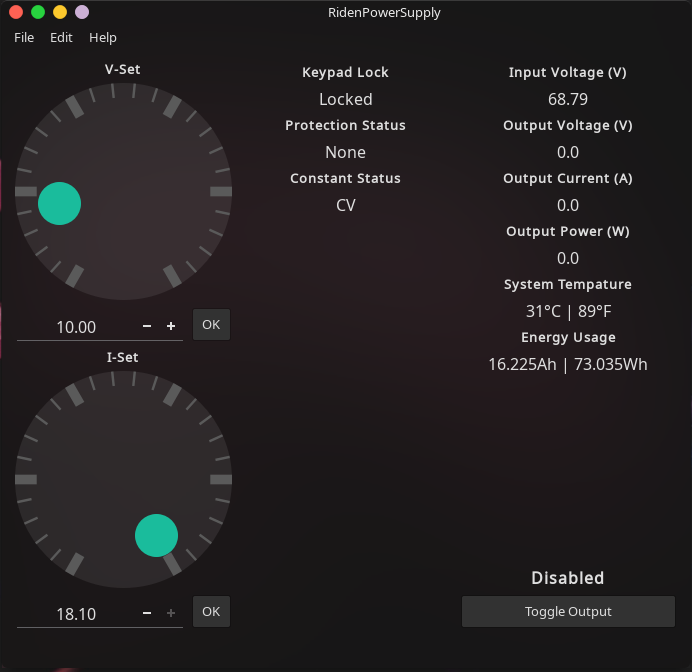
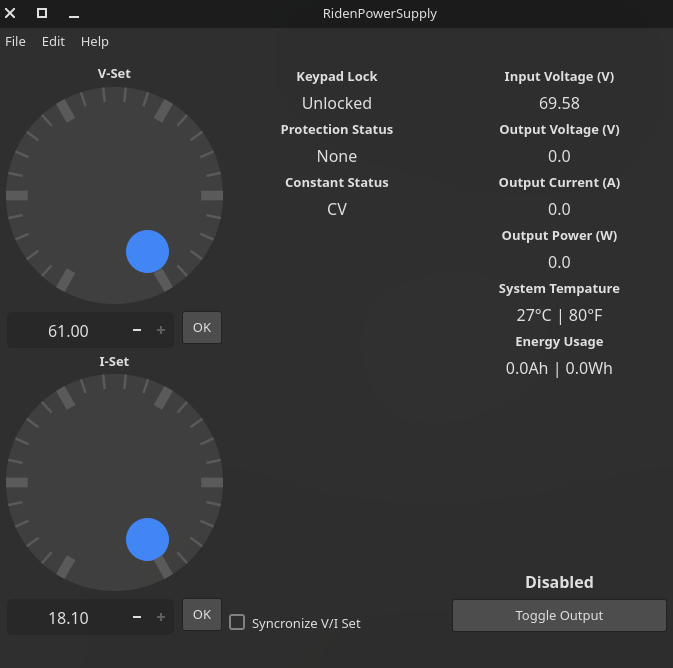
Change German to Deutsch Add Syncronize checkbox

diff --git a/ridengui/main_ui.py b/ridengui/main_ui.py
@@ -155,6 +155,11 @@ class Ui_MainWindow(object):
 
         self.V_Set_Layout = QGridLayout()
         self.V_Set_Layout.setObjectName(u"V_Set_Layout")
+        self.V_Set_Button = QToolButton(self.centralwidget)
+        self.V_Set_Button.setObjectName(u"V_Set_Button")
+
+        self.V_Set_Layout.addWidget(self.V_Set_Button, 4, 1, 1, 1)
+
         self.V_Set_SpinBox = QDoubleSpinBox(self.centralwidget)
         self.V_Set_SpinBox.setObjectName(u"V_Set_SpinBox")
         self.V_Set_SpinBox.setFont(font1)
@@ -163,19 +168,6 @@ class Ui_MainWindow(object):
         self.V_Set_SpinBox.setSingleStep(0.100000000000000)
 
         self.V_Set_Layout.addWidget(self.V_Set_SpinBox, 4, 0, 1, 1)
-
-        self.V_Set_Dial = QDial(self.centralwidget)
-        self.V_Set_Dial.setObjectName(u"V_Set_Dial")
-        self.V_Set_Dial.setMaximum(6100)
-        self.V_Set_Dial.setNotchTarget(100.000000000000000)
-        self.V_Set_Dial.setNotchesVisible(True)
-
-        self.V_Set_Layout.addWidget(self.V_Set_Dial, 3, 0, 1, 2)
-
-        self.V_Set_Button = QToolButton(self.centralwidget)
-        self.V_Set_Button.setObjectName(u"V_Set_Button")
-
-        self.V_Set_Layout.addWidget(self.V_Set_Button, 4, 1, 1, 1)
 
         self.V_Set_Label = QLabel(self.centralwidget)
         self.V_Set_Label.setObjectName(u"V_Set_Label")
@@ -189,28 +181,22 @@ class Ui_MainWindow(object):
 
         self.V_Set_Layout.addWidget(self.V_Set_Label, 2, 0, 1, 2)
 
+        self.V_Set_Dial = QDial(self.centralwidget)
+        self.V_Set_Dial.setObjectName(u"V_Set_Dial")
+        self.V_Set_Dial.setMaximum(6100)
+        self.V_Set_Dial.setNotchTarget(100.000000000000000)
+        self.V_Set_Dial.setNotchesVisible(True)
+
+        self.V_Set_Layout.addWidget(self.V_Set_Dial, 3, 0, 1, 2)
+
 
         self.gridLayout.addLayout(self.V_Set_Layout, 0, 0, 1, 1)
 
         self.gridLayout_2 = QGridLayout()
         self.gridLayout_2.setObjectName(u"gridLayout_2")
-        self.Keypad = QLabel(self.centralwidget)
-        self.Keypad.setObjectName(u"Keypad")
-        self.Keypad.setFont(font1)
-        self.Keypad.setAlignment(Qt.AlignCenter)
-
-        self.gridLayout_2.addWidget(self.Keypad, 1, 0, 1, 2)
-
         self.verticalSpacer = QSpacerItem(20, 40, QSizePolicy.Minimum, QSizePolicy.Expanding)
 
         self.gridLayout_2.addItem(self.verticalSpacer, 6, 0, 1, 2)
-
-        self.Protection_Label = QLabel(self.centralwidget)
-        self.Protection_Label.setObjectName(u"Protection_Label")
-        self.Protection_Label.setFont(font)
-        self.Protection_Label.setAlignment(Qt.AlignCenter)
-
-        self.gridLayout_2.addWidget(self.Protection_Label, 2, 0, 1, 2)
 
         self.Constant = QLabel(self.centralwidget)
         self.Constant.setObjectName(u"Constant")
@@ -233,12 +219,31 @@ class Ui_MainWindow(object):
 
         self.gridLayout_2.addWidget(self.Protection, 3, 0, 1, 2)
 
+        self.Keypad = QLabel(self.centralwidget)
+        self.Keypad.setObjectName(u"Keypad")
+        self.Keypad.setFont(font1)
+        self.Keypad.setAlignment(Qt.AlignCenter)
+
+        self.gridLayout_2.addWidget(self.Keypad, 1, 0, 1, 2)
+
+        self.Protection_Label = QLabel(self.centralwidget)
+        self.Protection_Label.setObjectName(u"Protection_Label")
+        self.Protection_Label.setFont(font)
+        self.Protection_Label.setAlignment(Qt.AlignCenter)
+
+        self.gridLayout_2.addWidget(self.Protection_Label, 2, 0, 1, 2)
+
         self.Constant_Label = QLabel(self.centralwidget)
         self.Constant_Label.setObjectName(u"Constant_Label")
         self.Constant_Label.setFont(font)
         self.Constant_Label.setAlignment(Qt.AlignCenter)
 
         self.gridLayout_2.addWidget(self.Constant_Label, 4, 0, 1, 2)
+
+        self.Live_Box = QCheckBox(self.centralwidget)
+        self.Live_Box.setObjectName(u"Live_Box")
+
+        self.gridLayout_2.addWidget(self.Live_Box, 7, 0, 1, 1)
 
 
         self.gridLayout.addLayout(self.gridLayout_2, 0, 1, 2, 1)
@@ -339,12 +344,13 @@ class Ui_MainWindow(object):
         self.OutputS_Button.setText(QCoreApplication.translate("MainWindow", u"Toggle Output", None))
         self.V_Set_Button.setText(QCoreApplication.translate("MainWindow", u"OK", None))
         self.V_Set_Label.setText(QCoreApplication.translate("MainWindow", u"V-Set", None))
-        self.Keypad.setText(QCoreApplication.translate("MainWindow", u"Unlocked", None))
-        self.Protection_Label.setText(QCoreApplication.translate("MainWindow", u"Protection Status", None))
         self.Constant.setText(QCoreApplication.translate("MainWindow", u"None", None))
         self.Keypad_Label.setText(QCoreApplication.translate("MainWindow", u"Keypad Lock", None))
         self.Protection.setText(QCoreApplication.translate("MainWindow", u"None", None))
+        self.Keypad.setText(QCoreApplication.translate("MainWindow", u"Unlocked", None))
+        self.Protection_Label.setText(QCoreApplication.translate("MainWindow", u"Protection Status", None))
         self.Constant_Label.setText(QCoreApplication.translate("MainWindow", u"Constant Status", None))
+        self.Live_Box.setText(QCoreApplication.translate("MainWindow", u"Syncronize V/I Set", None))
         self.I_Set_Button.setText(QCoreApplication.translate("MainWindow", u"OK", None))
         self.I_Set_Label.setText(QCoreApplication.translate("MainWindow", u"I-Set", None))
         self.Menu_File.setTitle(QCoreApplication.translate("MainWindow", u"File", None))

diff --git a/ridengui/main.py b/ridengui/main.py
@@ -64,6 +64,7 @@ class MainWindow(QMainWindow):
                     is_checked = self.ui.OutputS_Button.isChecked()
                     self.ui.OutputS.setText("Enabled" if is_checked else "Disabled")
                     self.r.set_output(is_checked)
+
         except:
             self.ui.Status_Bar.showMessage("Failed to connect, Edit > Serial, Restart required", 0)
             OpenSerialDialog()
@@ -89,6 +90,14 @@ class MainWindow(QMainWindow):
             self.ui.Temp.setText(f"{c}°C | {f}°F")
             ah, wh = self.r.amperehour, self.r.watthour
             self.ui.Energy.setText(f"{ah}Ah | {wh}Wh")
+
+            if self.ui.Live_Box.isChecked():
+                if self.r.voltage_set != self.ui.V_Set_SpinBox.value():
+                    with self.l:
+                        self.r.set_voltage_set(self.ui.V_Set_SpinBox.value())
+                if self.r.current_set != self.ui.I_Set_SpinBox.value():
+                    with self.l:
+                        self.r.set_current_set(self.ui.I_Set_SpinBox.value())
 
             with self.l:
                 self.r.update()

diff --git a/ridengui/settings_ui.py b/ridengui/settings_ui.py
@@ -123,8 +123,8 @@ class Ui_Settings(object):
         self.Buzzer_Box.setText(QCoreApplication.translate("Settings", u"Buzzer", None))
         self.Language_ComboBox.setItemText(0, QCoreApplication.translate("Settings", u"English", None))
         self.Language_ComboBox.setItemText(1, QCoreApplication.translate("Settings", u"Chinese", None))
-        self.Language_ComboBox.setItemText(2, QCoreApplication.translate("Settings", u"German", None))
-        self.Language_ComboBox.setItemText(3, QCoreApplication.translate("Settings", u"French", None))
+        self.Language_ComboBox.setItemText(2, QCoreApplication.translate("Settings", u"Deutsch", None))
+        self.Language_ComboBox.setItemText(3, QCoreApplication.translate("Settings", u"Fran\u00e7ais", None))
 
     # retranslateUi
 
